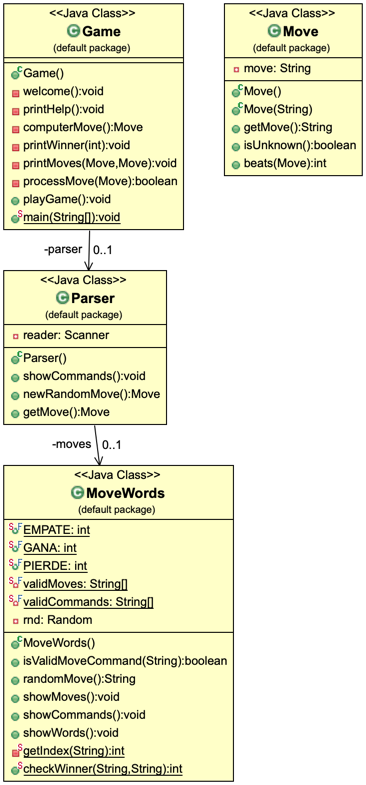
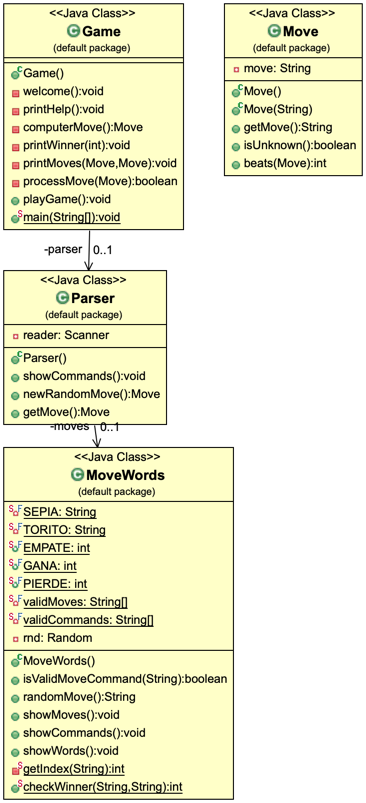
Sustituido lagartija por torito y spock por sepia mediante refactorización

Changed region(s): [[0.0, 0.0, 0.6612, 1.0], [0.6011, 0.0, 0.9918, 0.2446]]

diff --git a/PiedraPapelTijera/src/MoveWords.java b/PiedraPapelTijera/src/MoveWords.java
@@ -2,11 +2,13 @@ import java.util.Random;
 
 public class MoveWords{
 
-    public static final int EMPATE = 0;
+    private static final String SEPIA = "SPOCK";
+	private static final String TORITO = "LAGARTIJA";
+	public static final int EMPATE = 0;
     public static final int GANA = 1;
     public static final int PIERDE = 2;
 
-    private static final String[] validMoves = {"TIJERAS", "PAPEL", "PIEDRA", "LAGARTIJA", "SPOCK"};
+    private static final String[] validMoves = {"TIJERAS", "PAPEL", "PIEDRA", TORITO, SEPIA};
     private static final String[] validCommands = {"SALIR", "HELP"};
 
     private Random rnd;
